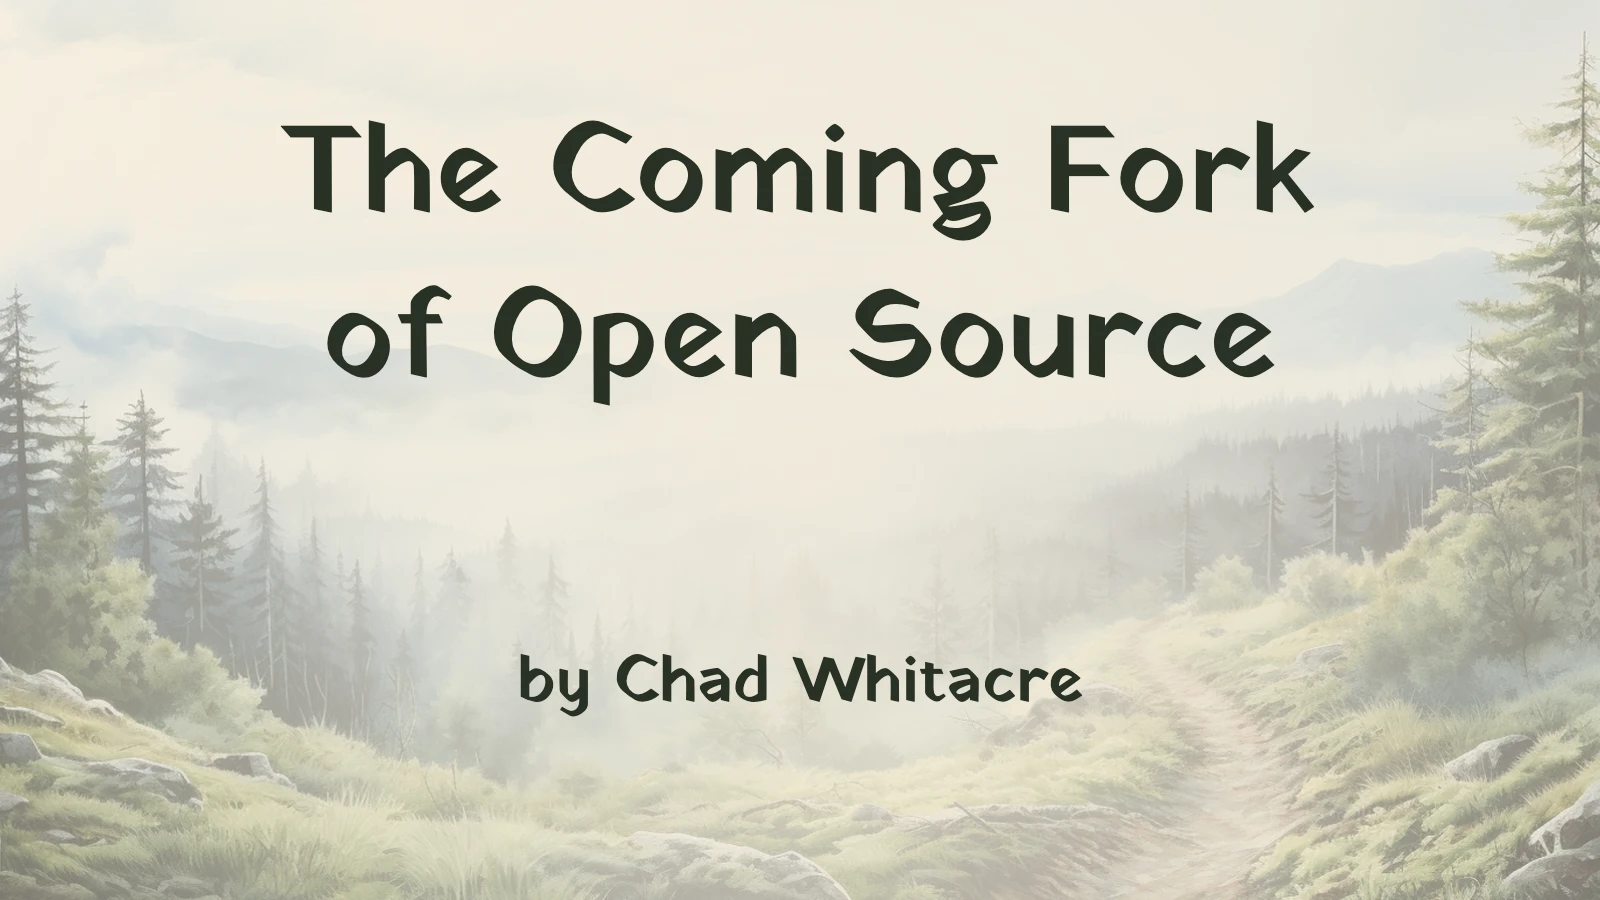
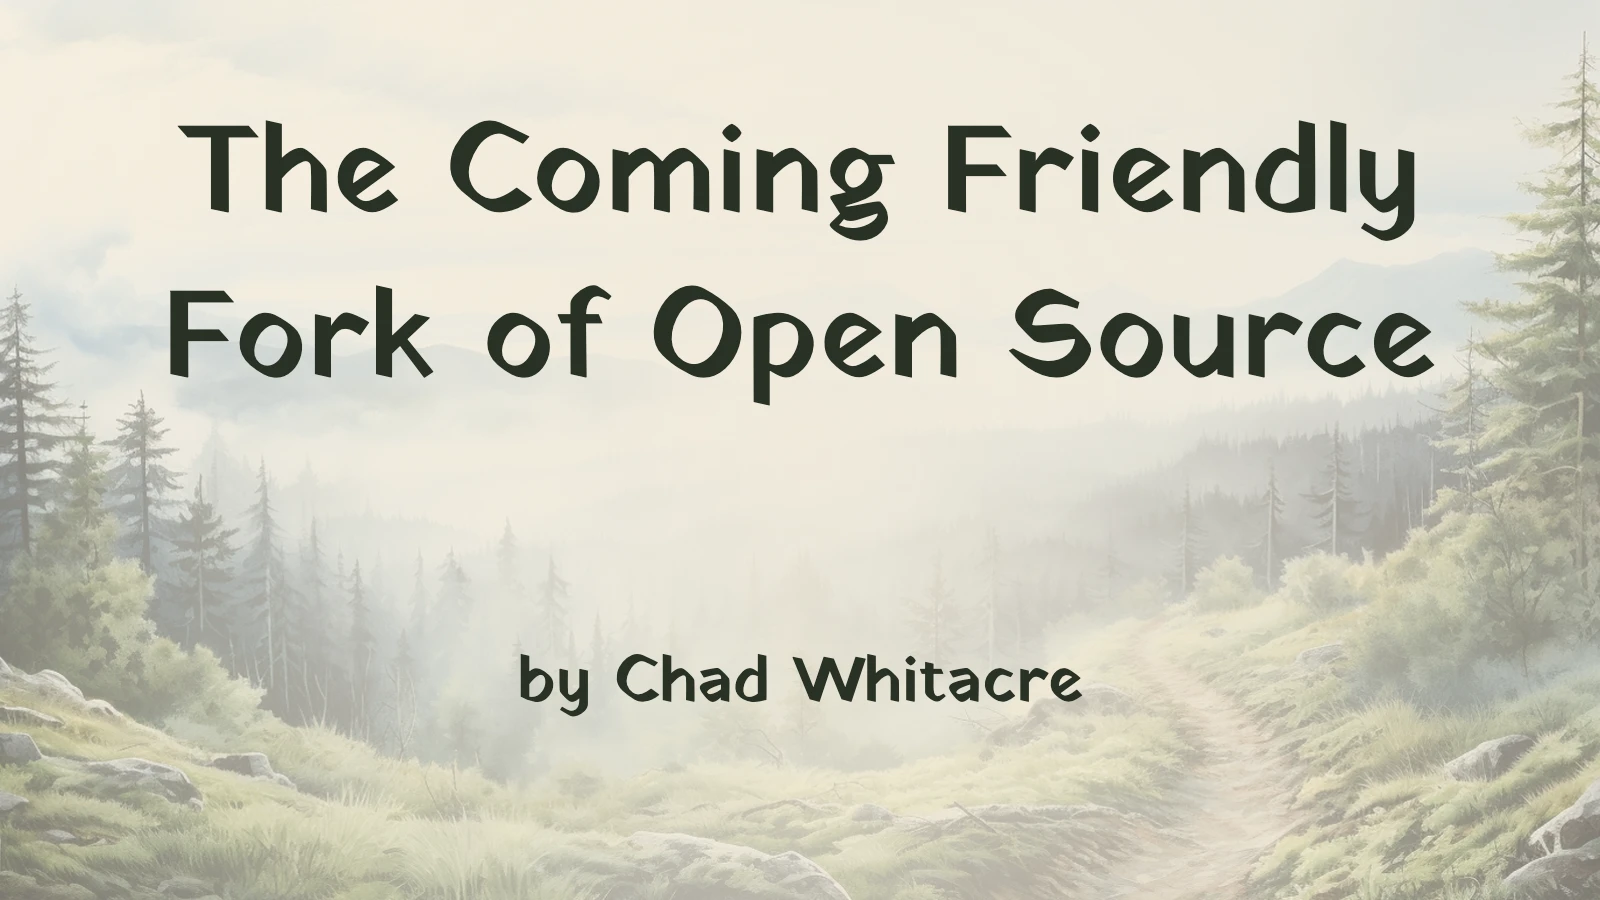
Friendly!

Changed region(s): [[0.0938, 0.1244, 0.9062, 0.28], [0.0938, 0.3111, 0.9062, 0.4667]]

diff --git a/2024/fork/index.md b/2024/fork/index.md
@@ -1,15 +1,15 @@
 ---
-title: The Coming Fork of Open Source
-excerpt: First there was Free Software, then Open Source. Now, get ready for Fair Source.
+title: The Coming Friendly Fork of Open Source
+excerpt: "First there was Free Software, then Open Source. Now, get ready for a friendly fork: Fair Source."
 noindex: true
 ---
 
-A new brand of software sharing is emerging out of Open Source, along a fault
-line present since Day Zero. The new name is [Fair Source](https://fair.io/),
+A new brand of software sharing is emerging out of Open Source, along a seam
+present since Day Zero. The new name is [Fair Source](https://fair.io/),
 and it will free up companies to share their core software products like never
 before. But first, it will cause some turbulence.
 
-Many Open Source advocates will see the Fair Source fork as a helpful
+Many Open Source advocates will see the Fair Source friendly fork as a helpful
 clarification that relieves the pressure we've seen year after year to change
 the Open Source Definition
 ([latest](https://danb.me/blog/futo-open-source-definition/)). Unfortunately,
@@ -22,9 +22,9 @@ Zero, the day when Free Software advocates capitalized on Netscape Navigator's
 source code release to [create the Open Source
 brand](https://opensource.org/history).
 
-What is the fault line? What is the key?
+What is the seam? What is the key?
 
-## The Fault Line Is Governance
+## The Seam Is Governance
 
 Dirk Riehle, professor of Open Source software at University of Erlangen,
 published an article in 2009 entitled, "[The Single-Vendor Commercial Open
@@ -200,7 +200,7 @@ of the OSD, then the alliance has come to an end.
 ## The Key Is Delayed Open Source
 
 With trust at an all-time low, the best option to resolve the tension between
-community and single-vendor interests is to fork the Open Source brand. But,
+community and single-vendor interests is to friendly-fork the Open Source brand. But,
 can this be amicable? We've been together for 25 years! Companies with
 single-vendor projects also run and participate in community projects. Most
 developers use both. We're all part of the wider developer community and
@@ -249,7 +249,7 @@ default in [BUSL](https://spdx.org/licenses/BUSL-1.1).
 ### Early Feedback Is Positive
 
 Thankfully, some voices who would limit Open Source based on governance are
-also seeing value in the Fair Source fork.
+also seeing value in the Fair Source friendly fork.
 
 - <b>Matt Wilson</b>, early Red Hat employee and long-time FOSS advocate,
   [offered the following
@@ -306,7 +306,7 @@ version and take it in a different direction.
 Dirk asked in 2021, "[What’s next after
 'source-available'?](https://dirkriehle.com/2021/10/05/whats-next-after-source-available/)"
 Our answer is [Fair Source](https://fair.io/). In this post I've presented the
-historical case for forking, and for a key feature, eventual Open Source.
+historical case for friendly-forking, and for a key feature, eventual Open Source.
 There's much more to define and design. [Join us on
 GitHub](https://github.com/fairsource/fair.io/issues/14) to participate. You
 can also [subscribe there](https://github.com/fairsource/fair.io/issues/14) or
